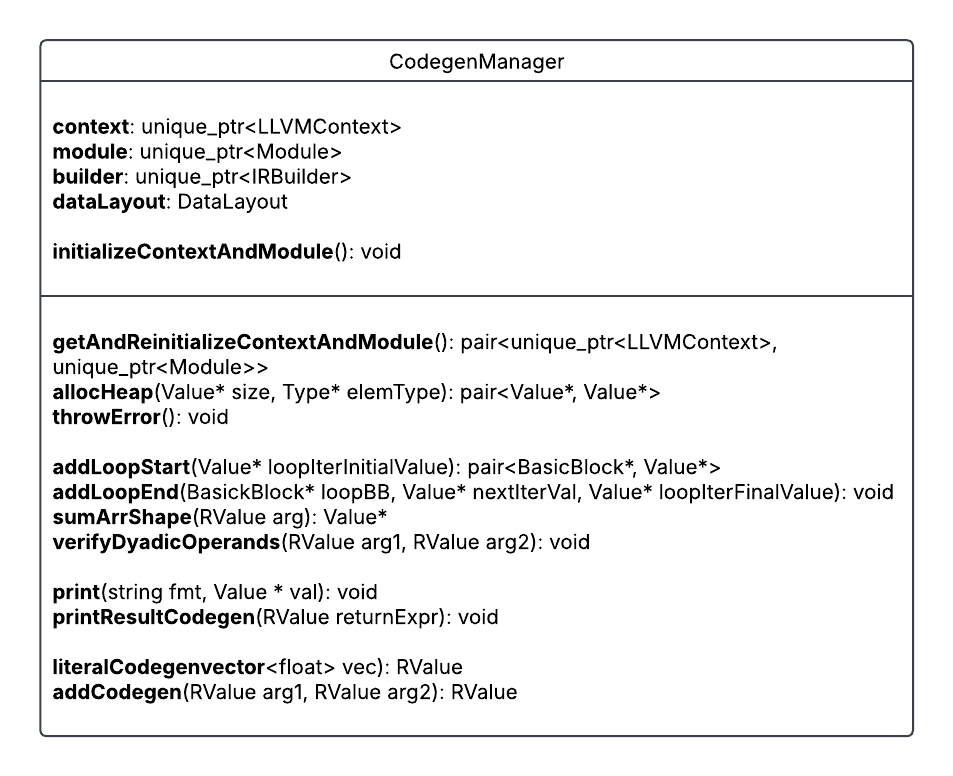
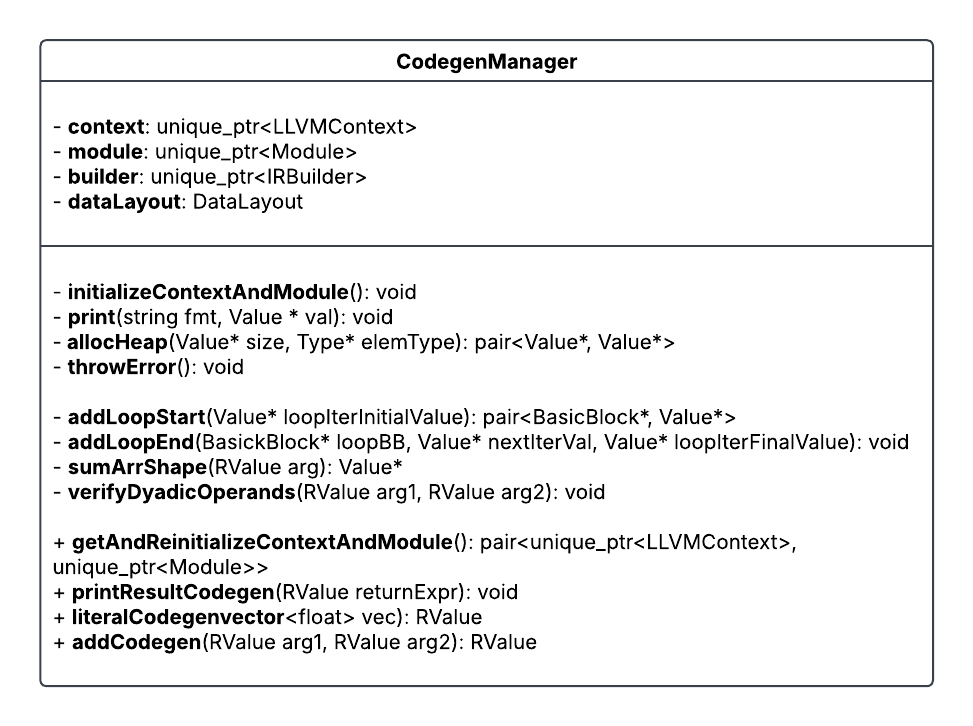
feat: reviewed stage2

Changed region(s): [[0.0304, 0.0303, 0.9738, 0.9697], [0.9433, 0.3333, 0.9738, 0.3939]]

diff --git a/content/blog/articles/llvm-pt1/index.md b/content/blog/articles/llvm-pt1/index.md
@@ -221,6 +221,7 @@ The lexer is responsible for that. Flex is a lexer generator that converts a cha
 - **Lines 4-17** indicate rules for the five non-terminal tokens. The curly braces indicate the action to be performed on a match.
   - It may be noted that line 8 returns `*yytext`. That is a special variable that points to the character stream that was just matched.
   - `yylval->emplace<float>(std::stod(yytext));` on the other hand, is used for when we want to return an explicit token but want the token to carry with it a particular value. In this case, we want the literal token to carry with it the floating-point number it captured.
+  - Due to a Flex limitation we cannot return unicode characters using `yytext` and `yylval`, hence we create seperate rules for each operator. In the next section, we'll update each rule to return a specific enum value for the matched symbol.
 - **Line 19** is a catch-all for any character that cannot be converted to a valid token in the program.
 
 To generate the lexer from the above description (`lexer.l`), run the following command
@@ -263,14 +264,14 @@ I skipped a few details here to make the article a little shorter. But one key c
 
 ### Stage 2: AST Construction
 
-Now that we have a functioning lexer and parser, we can use them to convert an APL program into some format that easier for us to process. That format is generally referred to as an Abstract Syntax Tree (AST). An AST does not have a fixed structure, you would build a different one for each language you wish to compile. 
+Now that we have a functioning lexer and parser, we can use them to convert an APL program into a format we can process more easily. That format is generally referred to as an Abstract Syntax Tree (AST). An AST does not have a fixed structure. You would need to build a different one for each language you wish to compile. 
 
-At the end of this section we will have an interface capable of parsing APL programs and printing out the abstract syntax tree of the program.
+At the end of this section, we will have an interface that can parse APL programs and print their abstract syntax trees.
 
 ![Stage2 Compiler Result](stage2.png)
 
-#### AST Node Classes
-For the limited APL language we are considering in this tutorial, our AST needs to support just three types of nodes
+#### Node Classes
+For the limited APL language we are considering in this tutorial, our AST needs to support just three types of nodes.
 1. **Literal**: To store arrays
 2. **MonadicCall**: To store monadic operations
 3. **DyadicCall**: To store dyadic operations
@@ -289,13 +290,13 @@ const string DyadicCall::print() const {
 }
 ```
 
-#### AST Op Classes
+#### Op Classes
 
 The `op` field in the call classes above can be of `MonadicOp` or `DyadicOp` type.
 
 ![Op Class Diagram](op-class-dgm.png)
 
-The grammar treats all operators as one `OPERATOR` token. We can distinguish between operators by having the lexer return a Symbol enum as the `yylval` and then have the parser run the symbol through `createMonadicOp() / createDyadicOp()` to generate an Op class of appropriate type.
+The grammar treats all operators as one `OPERATOR` token. We can distinguish between operators by having the lexer return a Symbol enum as the `yylval` and then have the parser run the symbol through `createMonadicOp() / createDyadicOp()` to generate an instance of the Op class of appropriate type.
 ```c++
 enum Symbol { PLUS, MINUS, TIMES, DIVIDE, IOTA, RHO };
 
@@ -314,7 +315,7 @@ const string AddOp::print() const { return "+"; }
 
 #### Putting it together
 
-Now that we have the necessary classes, we update the grammar to create AST nodes as and when rules are satisfied. We additionally, modify the parser to accept `unique_ptr<Node> astRetPtr` as input so that we can assign the result to it. We then modify the REPL program to print the AST to have the tree printed to console.
+Now that we have the necessary classes, we update the grammar to create AST nodes during the recursive application of the production rules. We additionally modify the parser to accept `unique_ptr<Node> astRetPtr` as input so that we can assign the result to it. We then modify the REPL program to print the AST to the console.
 
 ```c++
 start: prgm INPUT_COMPLETED {astRetPtr = std::move($1); YYACCEPT;}
